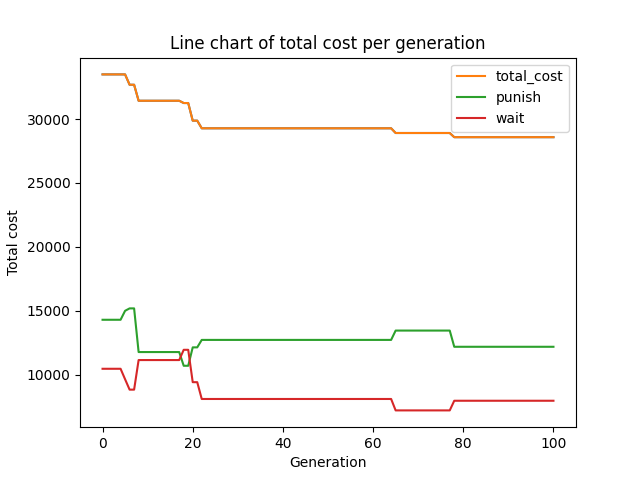
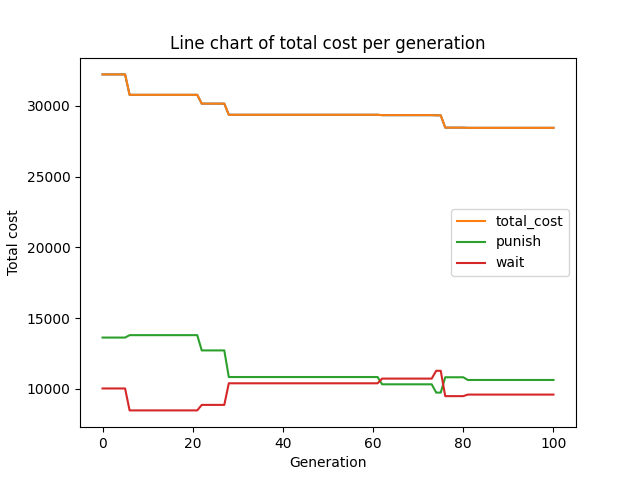
update mutation and crossover

diff --git a/GA_VRPTW.py b/GA_VRPTW.py
@@ -49,12 +49,6 @@ fitness_list = []
 chart_punish = []
 chart_wait = []
 
-# def check_condition(route):
-#     check = True
-#     sum_demand = sum(customers[cus][3] for cus in route)
-#     if sum_demand > vehicle_capacity:
-#         check = False
-#     return check
 
 def calculate_distance(coord1, coord2):
     x_diff = coord1[1] - coord2[1]
@@ -158,6 +152,12 @@ def generate_population(capacity,set_customer,population_size):
         population.append(flattened_list)
     return population
 
+def calculate_split_cost(parent):
+        for i in parent:
+            cost_i = solution_cost([i])
+            i.append(cost_i['total_cost'])
+        return parent
+
 # OX crossover need repair
 def crossover(parentA, parentB):
     parentA = parentA[:-1]
@@ -173,7 +173,7 @@ def crossover(parentA, parentB):
             p2genes = [gene for gene in parentB if gene not in child]
             child[:positions[0]] = p2genes[:positions[0]]
             child[positions[1]:] = p2genes[positions[0]:]
-            child = mutate(child)
+            child = heuristic_scramble_mutation(child)
             cost = solution_cost(split_route(child))
             child.append(cost['total_cost'])
             childs.append(child)
@@ -185,7 +185,7 @@ def crossover(parentA, parentB):
             p2genes = [gene for gene in parentA if gene not in child]
             child[:positions[0]] = p2genes[:positions[0]]
             child[positions[1]:] = p2genes[positions[0]:]
-            child = mutate(child)
+            child = heuristic_scramble_mutation(child)
             cost = solution_cost(split_route(child))
             child.append(cost['total_cost'])
             childs.append(child)
@@ -194,11 +194,6 @@ def crossover(parentA, parentB):
 
 # heuristic OX crossover 
 def heuristic_crossover(parentA, parentB):
-    def calculate_split_cost(parent):
-        for i in parent:
-            cost_i = solution_cost([i])
-            i.append(cost_i['total_cost'])
-        return parent
     parentA = parentA[:-1]
     parentB = parentB[:-1]
     childs = []
@@ -208,21 +203,39 @@ def heuristic_crossover(parentA, parentB):
     for _ in range(0,2):
         if index == 0:
             child = [0] * len(parentA)
-            best_pA = min(split_parentA, key= lambda x:x[-1])
-            child[:len(best_pA)-1] = best_pA[:-1]
-            p2genes = [gene for gene in parentB if gene not in child]
-            child[len(best_pA)-1:] = p2genes
-            child = mutate(child)
+            while True:
+                best_pA = min(split_parentA, key= lambda x:x[-1])
+                if len(best_pA) == 2:
+                    split_parentA.remove(best_pA)
+                else:
+                    break
+            best_pA = best_pA[:-1]
+            positionA1 = parentA.index(best_pA[0])
+            positionA2 = parentA.index(best_pA[-1])
+            child[positionA1:positionA2] = best_pA
+            p2genesA = [gene for gene in parentB if gene not in child] 
+            child[:positionA1] = p2genesA[:positionA1]
+            child[positionA2 + 1:] = p2genesA[positionA1:]
+            child = heuristic_scramble_mutation(child)
             cost = solution_cost(split_route(child))
             child.append(cost['total_cost'])
             childs.append(child)
         else:
             child = [0] * len(parentB)
-            best_pB = min(split_parentB, key= lambda x:x[-1])
-            child[:len(best_pB)-1] = best_pB[:-1]
-            p2genes = [gene for gene in parentA if gene not in child]
-            child[len(best_pB)-1:] = p2genes
-            child = mutate(child)
+            while True:
+                best_pB = min(split_parentB, key= lambda x:x[-1])
+                if len(best_pB) == 2:
+                    split_parentB.remove(best_pB)
+                else:
+                    break
+            best_pB = best_pB[:-1]
+            positionB1 = parentB.index(best_pB[0])
+            positionB2 = parentB.index(best_pB[-1])
+            child[positionB1:positionB2] = best_pB
+            p2genesB = [gene for gene in parentA if gene not in child]
+            child[:positionB1] = p2genesB[:positionB1]
+            child[positionB2 + 1:] = p2genesB[positionB1:]
+            child = heuristic_scramble_mutation(child)
             cost = solution_cost(split_route(child))
             child.append(cost['total_cost'])
             childs.append(child)
@@ -235,6 +248,18 @@ def mutate(solution):
         idx1, idx2 = random.sample(range(len(solution)), 2)
         solution[idx1], solution[idx2] = solution[idx2], solution[idx1]
     return solution
+
+def heuristic_scramble_mutation(solution):
+    if random.random() < mutation_rate:
+        split_child = calculate_split_cost(split_route(solution))
+        worst_genes = max(split_child, key= lambda x:x[-1])
+        positionA1 = solution.index(worst_genes[0])
+        positionA2 = solution.index(worst_genes[-2]) + 1
+        temp_list = solution[positionA1:positionA2]
+        random.shuffle(temp_list)
+        solution[positionA1:positionA2] = temp_list
+    return solution
+
 
 def generate_newgeneration(parent_generation,retention_rate):
     new_generation = []

diff --git a/test.py b/test.py
@@ -59,4 +59,7 @@
 # plt.show()
 
 [9, 4, 6, 2, 1, 5, 3, 7, 8, 10, 211.15436332297512]
-[9, 4, 6, 2, 1, 5, 3, 7, 8, 10, 211.15436332297512]
+A = [9, 4, 6, 2, 1, 5, 3, 7, 8, 10, 211.15436332297512]
+b= [1]
+A[-5] = 1
+print(A)
